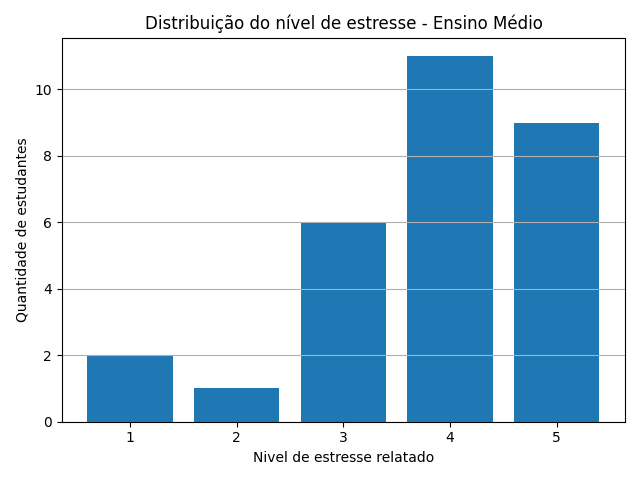
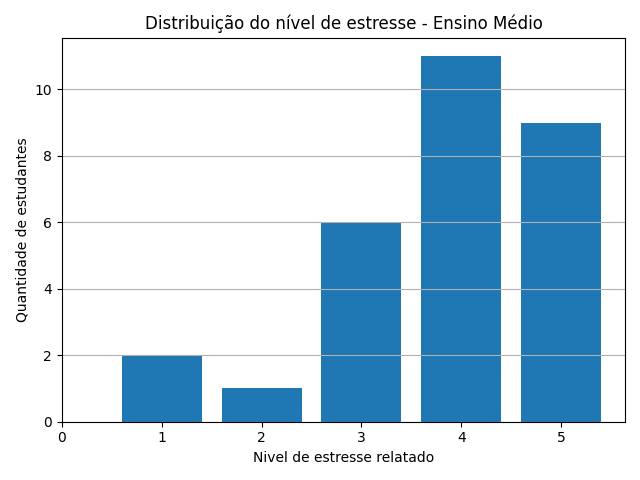
Finalização dos graficos por nivel de ensino

diff --git a/Semana_3/Atividade-Exploração_e_Análise_Inicial_de_Dados_Reais.py b/Semana_3/Atividade-Exploração_e_Análise_Inicial_de_Dados_Reais.py
@@ -178,12 +178,13 @@ plt.bar(estresse_highschool.index, estresse_highschool.values)
 plt.title("Distribuição do nível de estresse - Ensino Médio")
 plt.xlabel("Nivel de estresse relatado")
 plt.ylabel("Quantidade de estudantes")
-plt.grid(axis='y')
+plt.grid(axis='y') # Aqui mostro a linha do grid no eixo y para melhor visualizacao do grafico
+plt.xticks([0, 1, 2, 3, 4, 5]) # Aqui defino a separação do eixo x; Não da pra definir um unico para o y pois os a qtd de dados variam pelo nivel academico, mas a escala no eixo x sempre é a mesma. obs: não há nenhum dado com valor 0, porém, listei ele para ficar mais bonito o grafico.
 plt.tight_layout()
 plt.savefig(r'C:\Users\victo\Python_Senai390\Semana_3\distribuicao_estresse_ensino_medio.png') # Como vou fazer vários graficos, não da pra mostrar todos ao mesmo tempo, tenho que salvar um por um, depois vou só adicionar as imagens no relatório em markdown
 plt.clf() #Limpando para o proximo grafico
 
-#Seção 5.1.2.1 - undergraduate
+#Seção 5.1.2.2 - undergraduate
 
 estresse_undergraduate = df_final[df_final['academic_stage'] == 'undergraduate']['stress'].value_counts().sort_index()
 
@@ -195,6 +196,24 @@ plt.title("Distribuição do nível de estresse - Graduação")
 plt.xlabel("Nivel de estresse relatado")
 plt.ylabel("Quantidade de estudantes")
 plt.grid(axis='y')
+plt.xticks([0, 1, 2, 3, 4, 5])
 plt.tight_layout()
 plt.savefig(r'C:\Users\victo\Python_Senai390\Semana_3\distribuicao_estresse_graduação.png')
+plt.clf()
 
+#Seção 5.1.2.3 - post-graduate
+
+estresse_postgraduate = df_final[df_final['academic_stage'] == 'post-graduate']['stress'].value_counts().sort_index()
+
+# Grafico
+plt.bar(estresse_postgraduate.index, estresse_postgraduate.values)
+
+#Embelezamento do grafico:
+plt.title("Distribuição do nível de estresse - Pós Graduação")
+plt.xlabel("Nivel de estresse relatado")
+plt.ylabel("Quantidade de estudantes")
+plt.grid(axis='y')
+plt.xticks([0, 1, 2, 3, 4, 5])
+plt.tight_layout() 
+plt.savefig(r'C:\Users\victo\Python_Senai390\Semana_3\distribuicao_estresse_pos_graduação.png')
+plt.clf()
